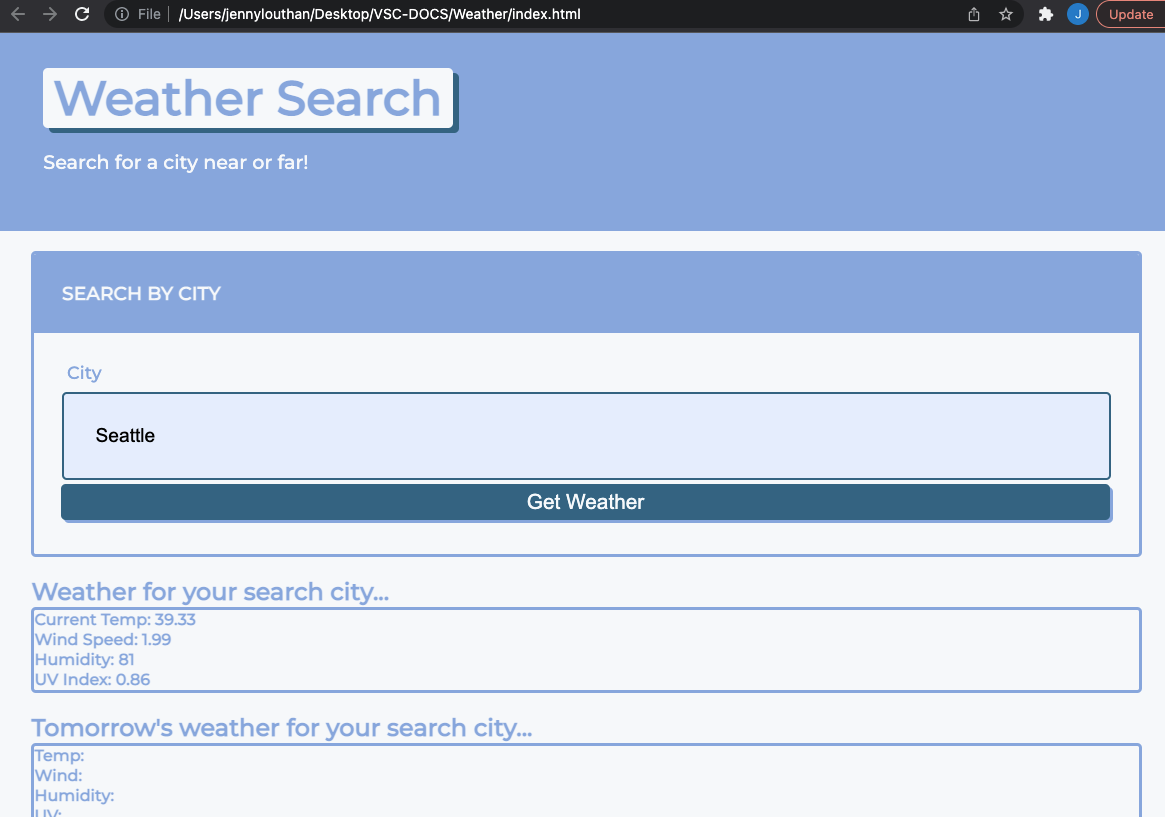
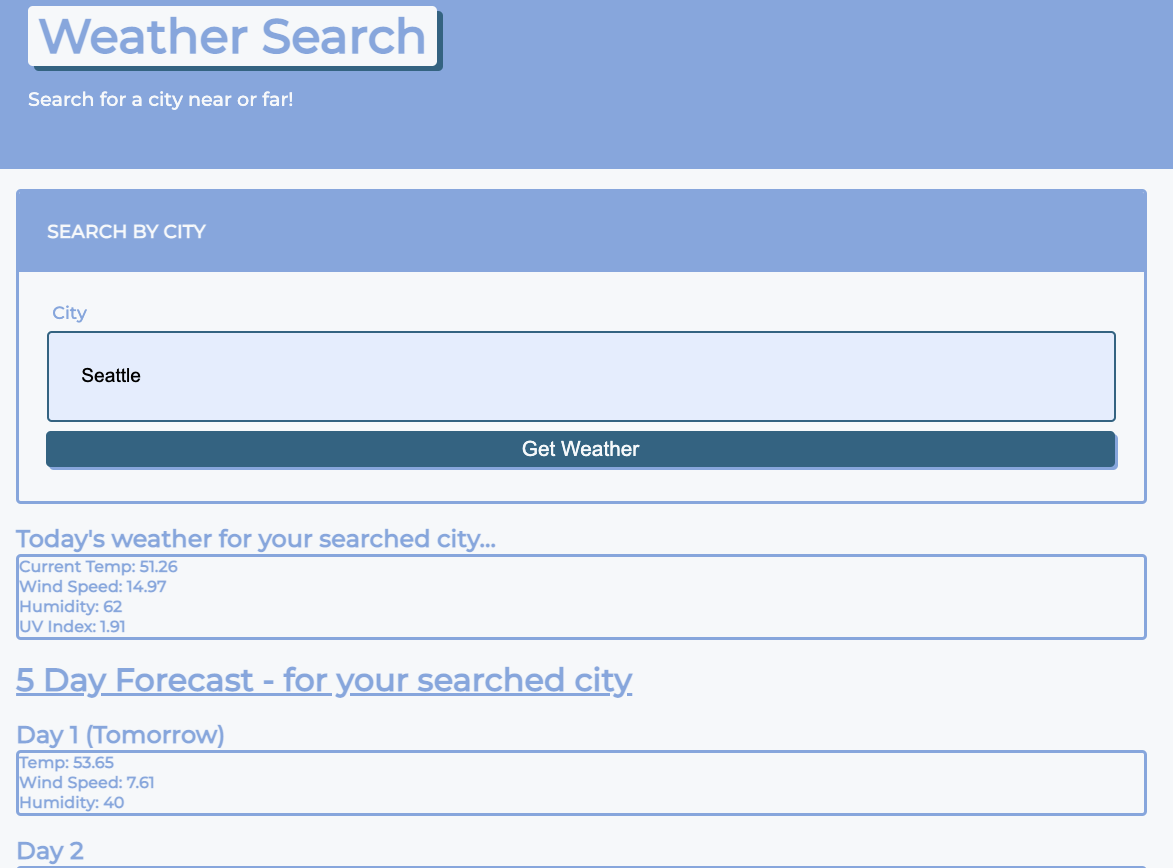
updated site with full 5 day forecast and readme updated

diff --git a/assets/js/script.js b/assets/js/script.js
@@ -3,7 +3,32 @@ function getweather(e) {
   var mykey = "f701ab40838a5c7fb6fac49871633b85"
   var city = document.querySelector("#city").value
   var currweather= `http://api.openweathermap.org/data/2.5/weather?q=${city}&appid=${mykey}&units=imperial`
-  
+  var dayone = {
+    temp: document.querySelector('#temp1'),
+    wind: document.querySelector('#wind1'),
+    humidity: document.querySelector('#humidity1')
+  }
+  var daytwo = {
+    temp: document.querySelector('#temp2'),
+    wind: document.querySelector('#wind2'),
+    humidity: document.querySelector('#humidity2')
+  }
+  var daythree = {
+    temp: document.querySelector('#temp3'),
+    wind: document.querySelector('#wind3'),
+    humidity: document.querySelector('#humidity3')
+  }
+  var dayfour = {
+    temp: document.querySelector('#temp4'),
+    wind: document.querySelector('#wind4'),
+    humidity: document.querySelector('#humidity4')
+  }
+  var dayfive = {
+    temp: document.querySelector('#temp5'),
+    wind: document.querySelector('#wind5'),
+    humidity: document.querySelector('#humidity5')
+  }
+
 
   fetch(currweather)
   .then (res => res.json()) 
@@ -24,6 +49,25 @@ function getweather(e) {
       console.log(data2)
       var uv = document.querySelector("#uv")
       uv.innerText = `UV Index: ${data2.daily[0].uvi}`
+      dayone.temp.innerText = `Temp: ${data2.daily[1].temp.day}`
+      dayone.wind.innerText = `Wind Speed: ${data2.daily[1].wind_speed}`
+      dayone.humidity.innerText = `Humidity: ${data2.daily[1].humidity}`
+      
+      daytwo.temp.innerText = `Temp: ${data2.daily[2].temp.day}`
+      daytwo.wind.innerText = `Wind Speed: ${data2.daily[2].wind_speed}`
+      daytwo.humidity.innerText = `Humidity: ${data2.daily[2].humidity}`
+      
+      daythree.temp.innerText = `Temp: ${data2.daily[3].temp.day}`
+      daythree.wind.innerText = `Wind Speed: ${data2.daily[3].wind_speed}`
+      daythree.humidity.innerText = `Humidity: ${data2.daily[3].humidity}`
+      
+      dayfour.temp.innerText = `Temp: ${data2.daily[4].temp.day}`
+      dayfour.wind.innerText = `Wind Speed: ${data2.daily[4].wind_speed}`
+      dayfour.humidity.innerText = `Humidity: ${data2.daily[4].humidity}`
+      
+      dayfive.temp.innerText = `Temp: ${data2.daily[5].temp.day}`
+      dayfive.wind.innerText = `Wind Speed: ${data2.daily[5].wind_speed}`
+      dayfive.humidity.innerText = `Humidity: ${data2.daily[5].humidity}`
     })
   })
 }
@@ -31,41 +75,4 @@ function getweather(e) {
 
 var searchbtn = document.querySelector(".btn")
 searchbtn.addEventListener("click", getweather)
-
-
-function getfutureweather(e) {
-  e.preventDefault()
-  var mykey = "f701ab40838a5c7fb6fac49871633b85"
-  var city = document.querySelector("#city").value
-  var futureweather= `http://api.openweathermap.org/data/2.5/weather?q=${city}&appid=${mykey}&units=imperial`
-
-fetch(futureweather)
-.then (res => res.json()) 
-.then (data => {
-    console.log(data)
-    var temp = document.querySelector("#temp2")
-    temp.innerText = `Current Temp: ${data.daily[1].temp.day}`
-    var wind = document.querySelector("#wind2")
-    wind.innerText = `Wind Speed: ${data.daily[1].wind_speed}`
-    var humidity = document.querySelector("#humidity2")
-    humidity.innerText = `Humidity: ${data.daily[1].humidity}`
-    var lon = data.coord.lon
-    var lat = data.coord.lat
-    var forecast= `http://api.openweathermap.org/data/2.5/onecall?lat=${lat}&lon=${lon}&appid=${mykey}&units=imperial`
-  fetch(forecast)
-  .then (res2 => res2.json()) 
-  .then (data2 => {
-    console.log(data2)
-    var uv = document.querySelector("#uv2")
-    uv.innerText = `UV Index: ${data2.daily[1].uvi}`
-  })
-})
-}
-
-
-
-var searchbtn2 = document.querySelector(".btn")
-searchbtn2.addEventListener("click", getfutureweather)
-
-
 

diff --git a/assets/css/style.css b/assets/css/style.css
@@ -1,9 +1,9 @@
 :root {
     --primary: #F7F9FB;
-    --secondary: #5085A5;
-    --tertiary:  #687864;
-    --light-dark: #31708E;
-    --dark: #8FB1E3;
+    --two: #5085A5;
+    --three:  #687864;
+    --dark-blue: #31708E;
+    --blue: #8FB1E3;
     --border-radius: .3rem;
   }
   
@@ -17,7 +17,7 @@
     margin: 0;
     padding: 0;
     font-family: "Montserrat", sans-serif;
-    color: var(--dark);
+    color: var(--blue);
     line-height: 1.5;
     font-size: 16px;
   }
@@ -30,7 +30,7 @@
   h6 {
     font-weight: 700;
     margin: 0;
-    color: var(--dark);
+    color: var(--blue);
     line-height: 1.25;
   }
   
@@ -54,16 +54,16 @@
     color: var(--primary);
     border: none;
     outline: none;
-    background-color: var(--light-dark);
-    box-shadow: 3px 3px var(--dark);
+    background-color: var(--dark-blue);
+    box-shadow: 3px 3px var(--blue);
     transform: translate(-1px, -1px);
   }
   
    .btn:hover {
     color: var(--primary);
-    background-color: var(--tertiary);
+    background-color: var(--three);
     transform: translate(0, 0);
-    box-shadow: 2px 2px var(--dark);
+    box-shadow: 2px 2px var(--blue);
   }
   
   .btn-inline {
@@ -72,14 +72,14 @@
 
    .btn-back:hover {
     color: var(--primary);
-    background-color: var(--tertiary);
+    background-color: var(--three);
     transform: translate(0, 0);
-    box-shadow: 2px 2px var(--dark);
+    box-shadow: 2px 2px var(--blue);
   }
   
   .hero {
     padding: 3% 4%;
-    background-color: var(--dark);
+    background-color: var(--blue);
     color: var(--primary);
   }
   
@@ -90,28 +90,39 @@
   .hero-title {
     font-size: 3rem;
     background-color: var(--primary);
-    color: var(--dark);
+    color: var(--blue);
     padding: 0 10px;
     display: inline-block;
     border-radius: var(--border-radius);
-    box-shadow: 6px 5px var(--light-dark);
+    box-shadow: 6px 5px var(--dark-blue);
+  }
+
+  .forecast {
+    font-size: 2rem;
+    font-weight: bold;
+    margin-bottom: 20px;
+    text-decoration-line: underline;
   }
 
   .card {
     margin: 0 0 20px 0;
-    border: 3px solid var(--dark);
+    border: 3px solid var(--blue);
     border-radius: var(--border-radius);
   }
   
   .card-header {
     color: var(--primary);
-    background-color: var(--dark);
+    background-color: var(--blue);
     padding: 2.5%;
     border-radius: calc(.18rem - 1px) calc(.18rem - 1px) 0 0;
   }
   
+
   .card-body {
     padding: 2.5%;
+  }
+
+ 
   }
   
   .form-label,
@@ -130,7 +141,7 @@
     padding: 3%;
     margin: 5px 0;
     font-size: 1.2rem;
-    border: 2px solid var(--light-dark);
+    border: 2px solid var(--dark-blue);
     border-radius: var(--border-radius);
   }
 

diff --git a/index.html b/index.html
@@ -31,27 +31,68 @@
       </div>
     
       <div>
-        <h2 class="subtitle">Weather for your search city...</h2>
+        <h2 class="subtitle">Today's weather for your searched city...</h2>
         <div class="container card">
-          <h3 class="cardheader" id="city-date"></h3>
           <h4 id="temp">Temp:</h4>
           <h4 id="wind">Wind:</h4>
           <h4 id="humidity">Humidity:</h4>
           <h4 id="uv">UV:</h4>
         </div>
       </div>
+      </div>
+      
+      <h2 class='forecast'> 5 Day Forecast - for your searched city</h2>
+      
+        <h2 class="subtitle">Day 1 (Tomorrow)</h2>
+        <div class="container card">
+          <h3 class="cardheader" id="city-date"></h3>
+          <h4 id="temp1">Temp:</h4>
+          <h4 id="wind1">Wind:</h4>
+          <h4 id="humidity1">Humidity:</h4>
+        </div>
+      </div>
 
       <div>
-        <h2 class="subtitle">Tomorrow's weather for your search city...</h2>
+        <h2 class="subtitle">Day 2 </h2>
         <div class="container card">
           <h3 class="cardheader" id="city-date"></h3>
           <h4 id="temp2">Temp:</h4>
           <h4 id="wind2">Wind:</h4>
           <h4 id="humidity2">Humidity:</h4>
-          <h4 id="uv2">UV:</h4>
         </div>
       </div>
 
+      <div>
+        <h2 class="subtitle">Day 3</h2>
+        <div class="container card">
+          <h3 class="cardheader" id="city-date"></h3>
+          <h4 id="temp3">Temp:</h4>
+          <h4 id="wind3">Wind:</h4>
+          <h4 id="humidity3">Humidity:</h4>
+         
+        </div>
+      </div>
+
+      <div>
+        <h2 class="subtitle">Day 4</h2>
+        <div class="container card">
+          <h3 class="cardheader" id="city-date"></h3>
+          <h4 id="temp4">Temp:</h4>
+          <h4 id="wind4">Wind:</h4>
+          <h4 id="humidity4">Humidity:</h4>
+        </div>
+      </div>
+
+      <div>
+        <h2 class="subtitle">Day 5</h2>
+        <div class="container card">
+          <h3 class="cardheader" id="city-date"></h3>
+          <h4 id="temp5">Temp:</h4>
+          <h4 id="wind5">Wind:</h4>
+          <h4 id="humidity5">Humidity:</h4>
+        </div>
+      </div> 
+<!-- 
       <div class="card">
         <h3 class="card-header text-uppercase">Default Cities</h3>
         <div class="card-body">
@@ -60,7 +101,7 @@
           <button class="btn btn-ny">New York</button>
         </div>
       </div>
-    </div>
+    </div> -->
 
   </main>
 

diff --git a/README.md b/README.md
@@ -11,7 +11,8 @@
 
 
 ## Description
-We were tasked this week with creating a searchable weather site where you type in the city and the result populates with a 5 day forecast. We were to use a weather API (I used openweathermap) to pull the data. I was able to successfully pull the current days weather for a given city. I ran into some issues trying to get the future weather. I will continue to work on this to gain more knowledge on how to pull the future information. I also created links for default cities but ran out of time to get those links to fully function. Thank you!
+*Updated*
+We were tasked this week with creating a searchable weather site where you type in the city and the result populates with a 5 day forecast. We were to use a weather API (I used openweathermap) to pull the data. I was able to successfully pull the current days weather for a given city. You will then find (when you scroll down) the 5 day forecast for your searched city. Thank you!
 
 
 ![weatherapp png](weatherapp.png)
